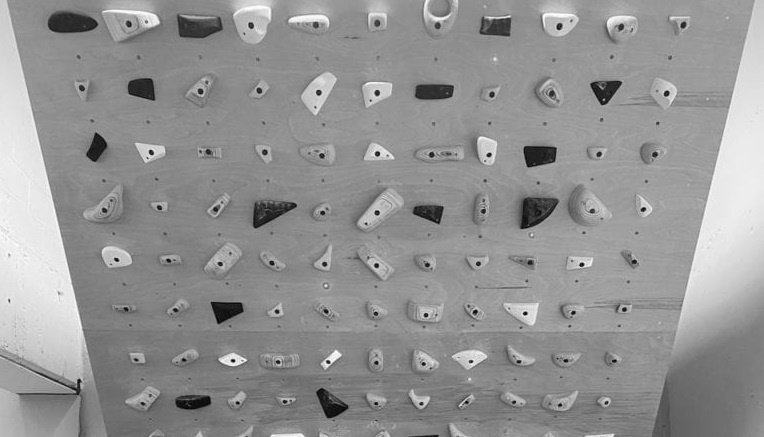
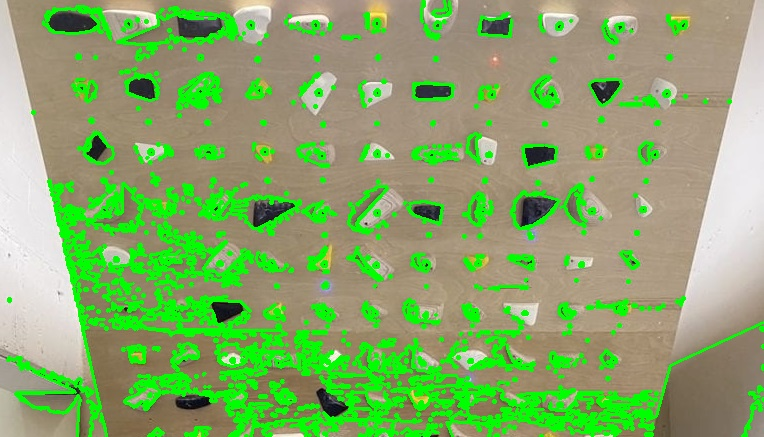
add: garbage poly detection. Needs work

diff --git a/src/main.rs b/src/main.rs
@@ -1,34 +1,87 @@
+/* TODO:
+	1. Do some sort of opencv polygon finding / edge detection. 
+	2. Outline all holds. Don't outline shadows.
+	3. Implement interactable canvas in some web framework.
+	4. Transfer opencv polygon/outline data to interactable canvas.
+	5. Implement selecting holds to save as routes.
+	6. Save/retrieve data for canvas and saved interactables in postgres.
+ */
 
 use std::env::args;
 
-use opencv::core::{find_file, Vector};
+use opencv::core::{find_file, Point, Scalar, Vector};
 use opencv::imgcodecs::{imread, imwrite, IMREAD_COLOR};
-use opencv::imgproc::{cvt_color_def, COLOR_BGR2GRAY,};
+use opencv::imgproc::{approx_poly_dp, arc_length, canny, cvt_color_def, draw_contours, find_contours_with_hierarchy, threshold, CHAIN_APPROX_SIMPLE, COLOR_BGR2GRAY, LINE_8, RETR_EXTERNAL, THRESH_BINARY};
 use opencv::prelude::*;
 use opencv::Result;
 
 fn main() -> Result<()> {
-	// Read the image
+	// Get image path from hard coded or arg
 	let mut image_name = "/workspaces/board_image_proc_dev/images/moonboard.jpg".to_string();
 	if let Some(image_name_arg) = args().nth(1) {
 		image_name = image_name_arg;
 	}
-
+	
+	// Read the image
 	let src = imread(&find_file(&image_name, false, false)?, IMREAD_COLOR)?;
 	if src.empty() {
 		return Ok(());
 	}
 
-	// Pass the image to gray
-	let mut src_gray = Mat::default();
-	cvt_color_def(&src, &mut src_gray, COLOR_BGR2GRAY)?;
-    let params: Vector<i32> = vec![].into();
-    let result = imwrite(&image_name.replace(".jpg", "_out.jpg"), &src_gray, &params);
-    match result {
-        Ok(success) => { println!("{}", success); }
-        Err(err) => { println!("{}", err); }
-    }
-    
+	// Process Image
+	if let Ok(processed_img) = process_image(src) {
+		// Write img to file with '_out' suffix
+		let output_filename: String = image_name.replace(".jpg", "_out.jpg");
+		let params: Vector<i32> = vec![].into();
+		let result = imwrite(&output_filename, &processed_img, &params);
+		match result {
+			Ok(..) => { println!("Success processing and writing file: {}", output_filename) }
+			Err(err) => { println!("{}", err); }
+		}
+	}
 
     Ok(())
+}
+
+fn process_image(mat: Mat) -> Result<Mat> {
+	let mut output = Mat::default();
+	mat.copy_to(&mut output)?;
+
+	let mut grayscale = Mat::default();
+	cvt_color_def(&mat, &mut grayscale, COLOR_BGR2GRAY)?;
+
+	let mut img_threshold = Mat::default();
+	threshold(&grayscale, &mut img_threshold, 128.0, 255.0, THRESH_BINARY)?; // Result is only used for THRESH_OTSU and THRESH_TRIANGLE types.
+	imwrite("images/threshold.jpg", &img_threshold, &Vector::default())?;
+
+	let mut edges = Mat::default();
+	canny(&img_threshold, &mut edges, 100.0, 200.0, 3, false)?;
+	imwrite("images/edges.jpg", &edges, &Vector::default())?;
+
+	let mut img_contours: Vector<Vector<Point>> = Vector::default();
+	let mut heirarchy = Mat::default();
+	find_contours_with_hierarchy(&edges, &mut img_contours, &mut heirarchy, RETR_EXTERNAL, CHAIN_APPROX_SIMPLE, Point::new(0, 0))?;
+
+	for i in 0..img_contours.len() {
+		let contour = img_contours.get(i)?;
+		let mut approx: Vector<Point> = Vector::default();
+		let arc_len = arc_length(&contour, true)?;
+		approx_poly_dp(&contour, &mut approx, 0.01 * arc_len, true)?;
+		if approx.len() > 2 {
+			let draw: Vector<Vector<Point>> = Vector::from_iter(vec![approx].into_iter());
+            draw_contours(
+                &mut output,
+                &draw,
+                0,
+                Scalar::from_array([0.0, 255.0, 0.0, 0.0]),
+                2,
+                LINE_8,
+                &heirarchy,
+                0,
+                Point::new(0, 0),
+            )?;
+		}
+	}
+
+	Ok(output)
 }
